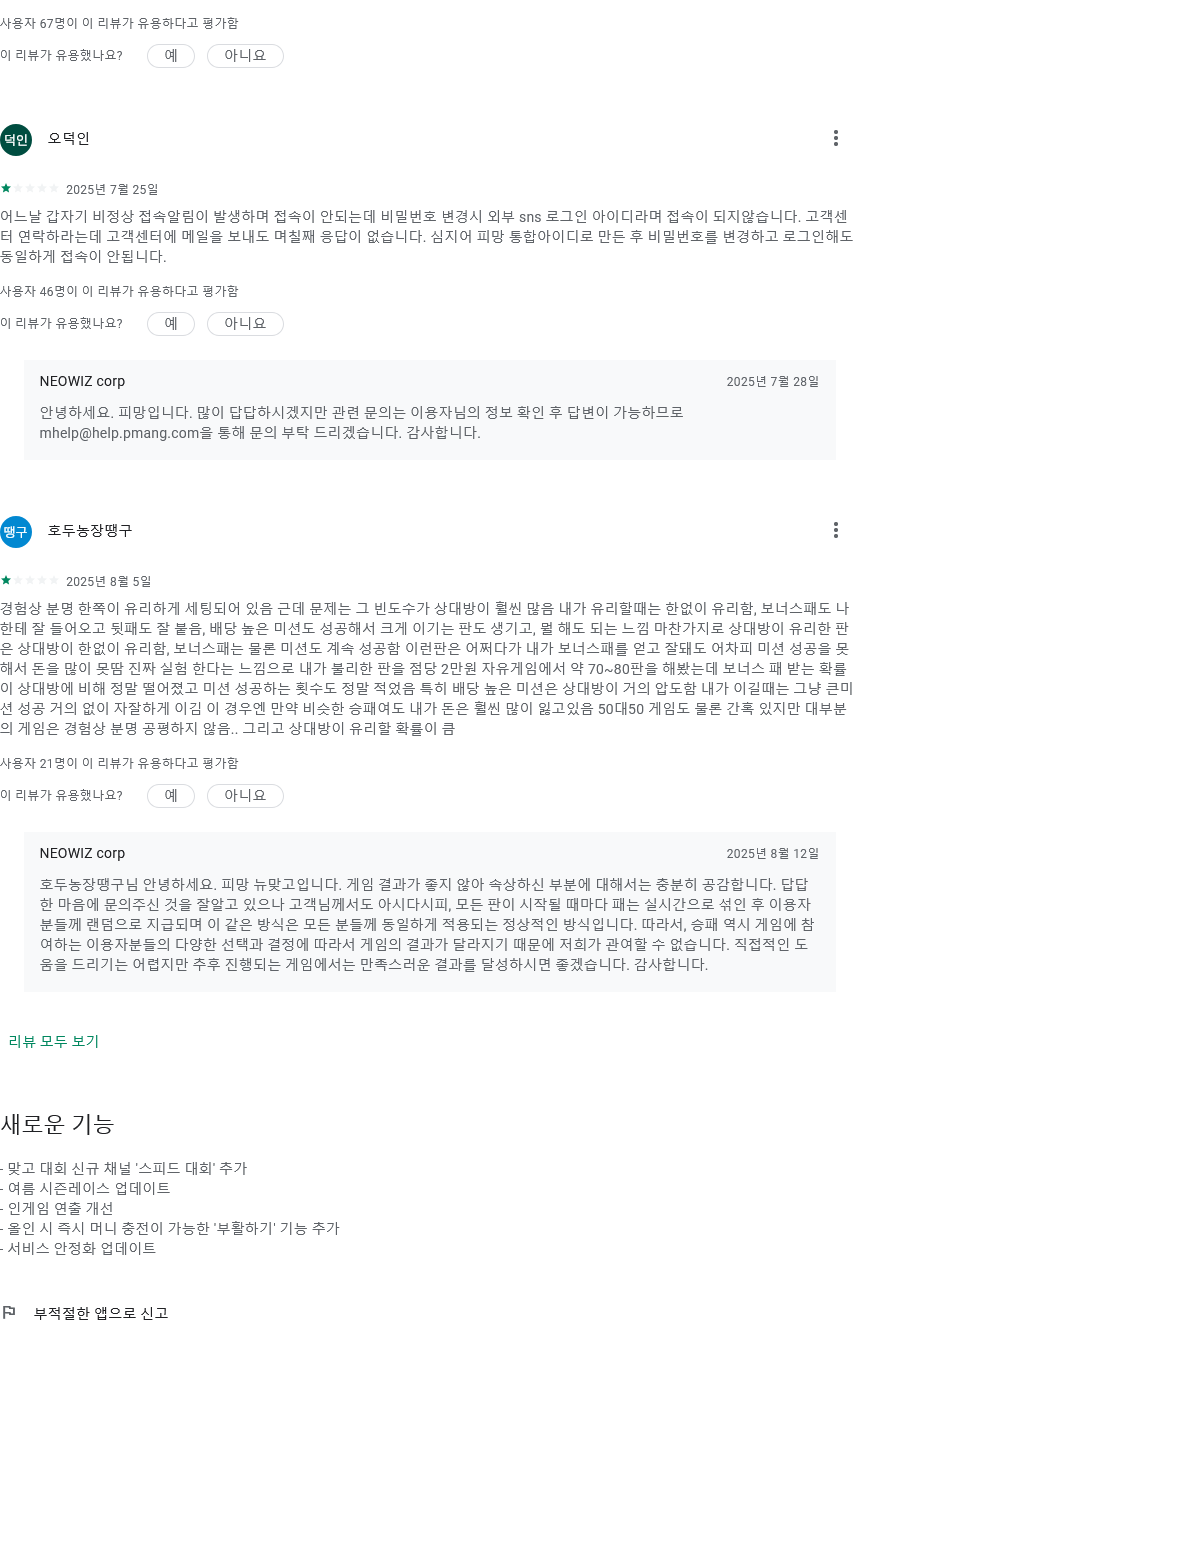
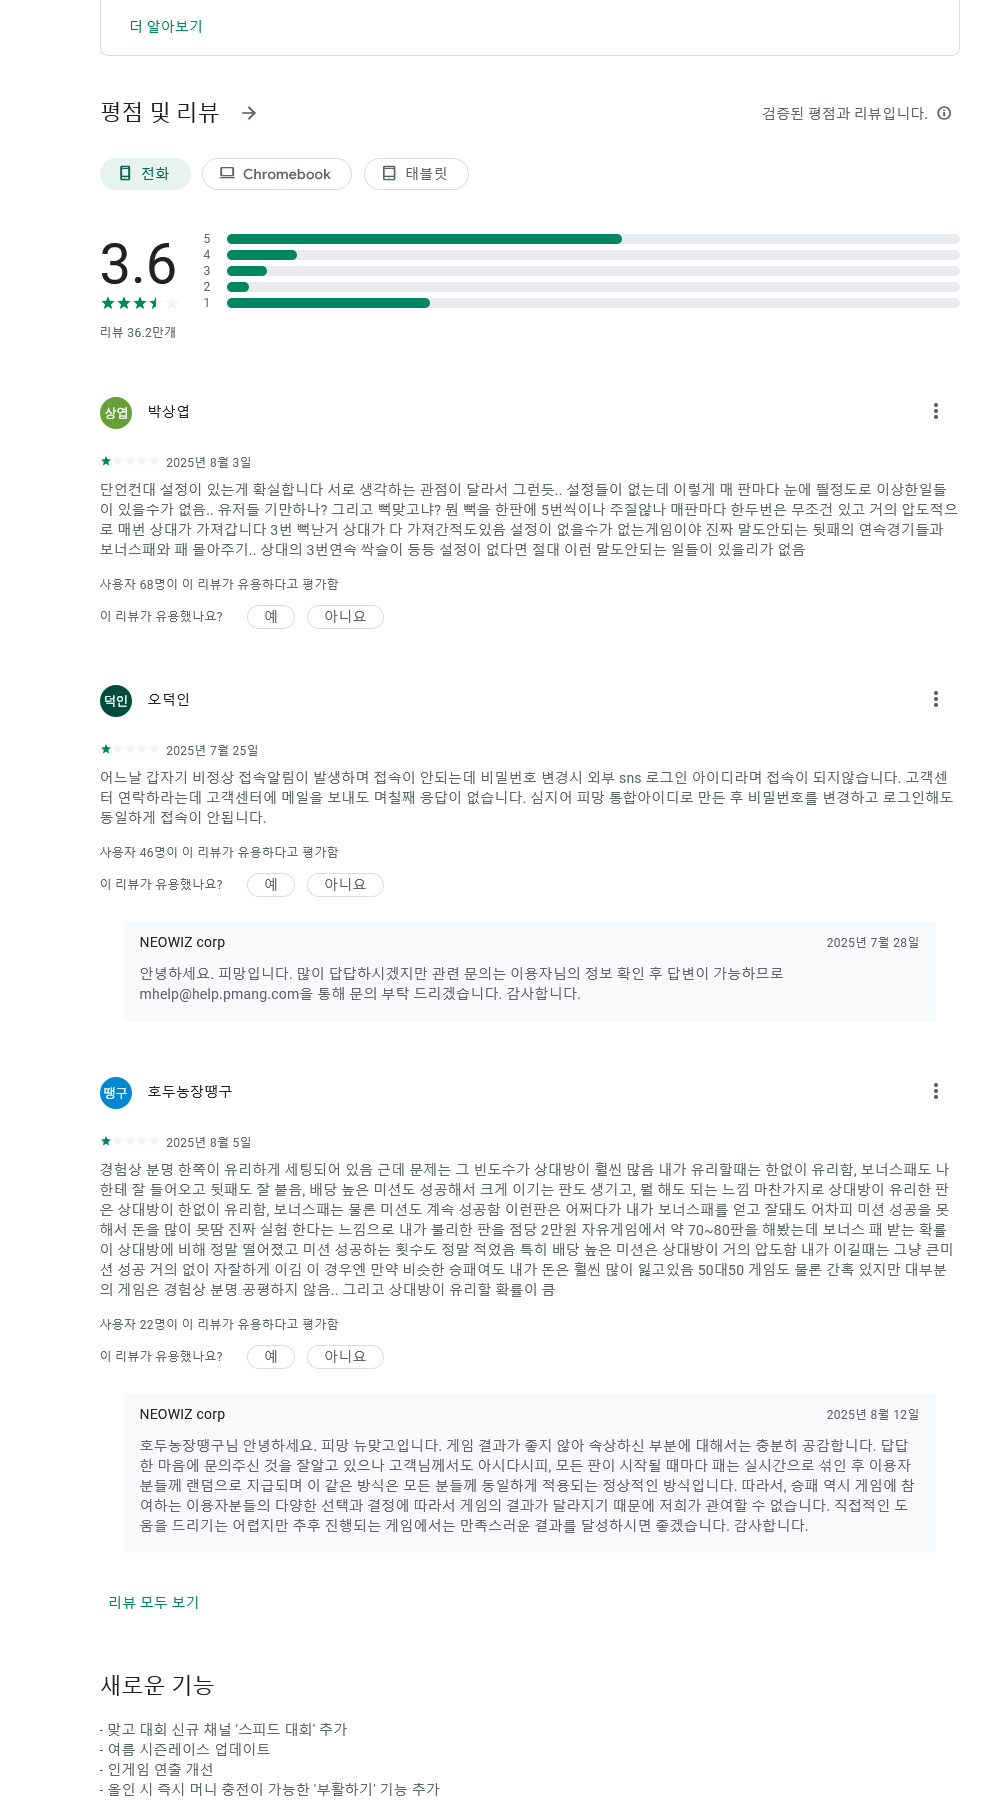
Update: HTML and 20250825 capture data with improved auto-update logic

diff --git a/aos_review.html b/aos_review.html
@@ -377,13 +377,14 @@
                     <div class="filter-section">
                         <div class="filter-group date-group">
                             <label class="filter-label">📅 날짜 선택</label>
-                            <select id="dateSelect" class="date-select" onchange="handleDateChange()">
-                                <option value="20250824">2025-08-24</option>
-                                <option value="20250823">2025-08-23</option>
-                                <option value="20250822">2025-08-22</option>
-                                <option value="20250821">2025-08-21</option>
-                                <option value="20250813">2025-08-13</option>
-                            </select>
+                                                         <select id="dateSelect" class="date-select" onchange="handleDateChange()">
+                                 <option value="20250825">2025-08-25</option>
+                                 <option value="20250824">2025-08-24</option>
+                                 <option value="20250823">2025-08-23</option>
+                                 <option value="20250822">2025-08-22</option>
+                                 <option value="20250821">2025-08-21</option>
+                                 <option value="20250813">2025-08-13</option>
+                             </select>
                         </div>
                         <div class="filter-group business-group">
                             <label class="filter-label">🏢 사업실 선택</label>
@@ -432,7 +433,7 @@
             ];
 
             // 사용 가능한 날짜들
-            const availableDates = ['20250824', '20250823', '20250822', '20250821', '20250813'];
+            const availableDates = ['20250825', '20250824', '20250823', '20250822', '20250821', '20250813'];
 
             function formatDate(dateStr) {
                 const year = dateStr.substring(0, 4);
@@ -616,7 +617,7 @@
 
             // 페이지 로드 시 기본 날짜 표시
             document.addEventListener('DOMContentLoaded', function () {
-                showDateContent('20250824');
+                showDateContent('20250825');
                 updateGameOptions('all');
                 filterGames('all');
             });

diff --git a/auto_capture_and_update.py b/auto_capture_and_update.py
@@ -55,7 +55,7 @@ def setup_driver():
     """Firefox WebDriver 설정"""
     firefox_options = Options()
     firefox_options.add_argument("--width=1920")
-    firefox_options.add_argument("--height=1080")
+    firefox_options.add_argument("--height=1200")  # 높이를 늘려서 더 많은 내용 표시
     firefox_options.add_argument("--headless")  # 백그라운드 실행을 위한 헤드리스 모드
     firefox_options.set_preference("dom.webdriver.enabled", False)
     firefox_options.set_preference("useAutomationExtension", False)
@@ -64,6 +64,11 @@ def setup_driver():
     # 한국어 설정 추가
     firefox_options.set_preference("intl.accept_languages", "ko-KR,ko;q=0.9,en;q=0.8")
     firefox_options.set_preference("general.useragent.locale", "ko-KR")
+    
+    # 추가 설정으로 더 정확한 렌더링 보장
+    firefox_options.set_preference("layout.css.devPixelsPerPx", "1.0")  # 픽셀 밀도 설정
+    firefox_options.set_preference("browser.cache.disk.enable", False)  # 캐시 비활성화
+    firefox_options.set_preference("browser.cache.memory.enable", False)  # 메모리 캐시 비활성화
     
     return webdriver.Firefox(options=firefox_options)
 
@@ -100,6 +105,26 @@ def capture_game_review_firefox(driver, app_id, game_name, save_dir, logger):
             driver.get(korean_url)
             time.sleep(3)
         
+        # 화면 크기 최적화를 위한 동적 조정
+        logger.info("화면 크기 최적화 시작")
+        try:
+            # 현재 창 크기 확인
+            current_size = driver.get_window_size()
+            logger.info(f"현재 창 크기: {current_size['width']} x {current_size['height']}")
+            
+            # 페이지 내용에 맞게 창 크기 조정
+            driver.set_window_size(1920, 1200)
+            time.sleep(2)
+            
+            # 페이지가 완전히 로드될 때까지 대기
+            WebDriverWait(driver, 10).until(
+                lambda driver: driver.execute_script("return document.readyState") == "complete"
+            )
+            
+            logger.info("화면 크기 최적화 완료")
+        except Exception as e:
+            logger.warning(f"화면 크기 최적화 실패: {e}")
+        
         # "리뷰 모두 보기" 버튼을 클릭하지 않고 기본 리뷰 섹션만 캡처
         logger.info(f"기본 리뷰 섹션 캡처 시작: {game_name} (버튼 클릭 없음)")
         
@@ -133,32 +158,55 @@ def capture_game_review_firefox(driver, app_id, game_name, save_dir, logger):
             "//span[text()='리뷰 모두 보기']",
             "//div[contains(text(), '리뷰 모두 보기')]",
             "//button[contains(text(), '리뷰 모두 보기')]",
-            "//a[contains(text(), '리뷰 모두 보기')]"
+            "//a[contains(text(), '리뷰 모두 보기')]",
+            "//div[contains(text(), '새로운 기능')]",
+            "//h3[contains(text(), '새로운 기능')]",
+            "//div[contains(text(), '부적절한 앱으로 신고')]",
+            "//a[contains(text(), '부적절한 앱으로 신고')]"
         ]
         
         for i, selector in enumerate(end_element_selectors):
             try:
                 end_element = driver.find_element(By.XPATH, selector)
-                logger.info(f"끝 요소 찾기 성공: '리뷰 모두 보기' (선택자 {i+1}: {selector})")
+                logger.info(f"끝 요소 찾기 성공: (선택자 {i+1}: {selector})")
                 break
             except Exception as e:
                 logger.debug(f"끝 요소 선택자 {i+1} 실패: {selector} - {e}")
                 continue
         
         if end_element is None:
-            logger.error(f"끝 요소를 찾을 수 없습니다: '리뷰 모두 보기'")
-            return False
+            logger.warning(f"끝 요소를 찾을 수 없습니다. 기본 높이로 캡처합니다.")
+            # 끝 요소를 찾지 못한 경우, 시작 요소에서 2000px 아래로 캡처
+            end_location = {'y': start_location['y'] + 2000}
+            end_size = {'height': 0}
+        else:
+            end_location = end_element.location
+            end_size = end_element.size
         
         # 시작 요소로 스크롤
         logger.info(f"시작 요소로 스크롤: {game_name}")
         driver.execute_script("arguments[0].scrollIntoView({behavior: 'smooth', block: 'start'});", start_element)
         time.sleep(3)  # 스크롤 완료 대기
         
-        # 전체 페이지 높이 설정
+        # 전체 페이지 높이 설정 (전체 화면 캡처)
         logger.info("전체 페이지 높이 설정")
         total_height = driver.execute_script("return document.body.scrollHeight")
+        logger.info(f"전체 페이지 높이: {total_height}px")
+        
+        # 전체 화면 크기로 설정
         driver.set_window_size(1920, total_height)
+        time.sleep(3)  # 크기 변경 후 안정화 대기
+        
+        # 페이지가 완전히 렌더링될 때까지 대기
+        WebDriverWait(driver, 10).until(
+            lambda driver: driver.execute_script("return document.readyState") == "complete"
+        )
+        
+        # 추가로 스크롤하여 모든 콘텐츠가 로드되도록 함
+        driver.execute_script("window.scrollTo(0, document.body.scrollHeight);")
         time.sleep(2)
+        driver.execute_script("window.scrollTo(0, 0);")
+        time.sleep(1)
         
         # 스크린샷 촬영
         logger.info(f"전체 페이지 스크린샷 촬영: {game_name}")
@@ -178,11 +226,19 @@ def capture_game_review_firefox(driver, app_id, game_name, save_dir, logger):
         logger.info(f"끝 요소 위치: x={end_location['x']}, y={end_location['y']}")
         logger.info(f"끝 요소 크기: width={end_size['width']}, height={end_size['height']}")
         
-        # 캡처 영역 계산 (시작 요소부터 끝 요소까지, 너비 1200px로 고정)
-        crop_left = max(0, start_location['x'])
-        crop_top = max(0, start_location['y'] - 20)  # 시작 요소 위쪽 20px 여유
-        crop_right = min(img.width, start_location['x'] + 1200)  # 너비를 1200px로 고정
-        crop_bottom = min(img.height, end_location['y'] + end_size['height'] + 30)  # 끝 요소 아래쪽 30px 여유
+        # 캡처 영역 계산 (고정 크기: 1000 x 1800 - 우측 사이드바 제외)
+        crop_width = 1000  # 너비를 1000px로 설정 (우측 사이드바 제외)
+        crop_left = max(0, start_location['x'] - 100)  # 시작 요소에서 왼쪽으로 100px 여백
+        crop_top = max(0, start_location['y'] - 100)  # 시작 요소 위쪽 100px 여유
+        crop_right = min(img.width, crop_left + crop_width)  # 조정된 너비 적용
+        
+        # 고정 높이 1800px로 설정
+        crop_bottom = min(img.height, crop_top + 1800)  # 시작점에서 1800px 아래까지
+        
+        # 최소 캡처 높이 보장 (최소 1800px)
+        min_height = 1800
+        if crop_bottom - crop_top < min_height:
+            crop_bottom = min(img.height, crop_top + min_height)
         
         logger.info(f"최종 크롭 영역: left={crop_left}, top={crop_top}, right={crop_right}, bottom={crop_bottom}")
         
@@ -220,9 +276,20 @@ def update_html_with_new_images(save_dir, logger):
         # 새로 캡처된 파일들의 매핑 생성
         filename_mapping = {}
         for app_id, game_name in GAMES.items():
-            old_filename = f"{game_name.lower()}_reviews_{today}_*.png"  # 기존 형식
-            new_filename = f"{game_name}_{today}.png"  # 새로운 형식
-            filename_mapping[old_filename] = new_filename
+            # 실제 생성되는 파일명 형식으로 수정
+            new_filename = f"{game_name}_{today}.png"
+            
+            # HTML에서 찾을 수 있는 다양한 패턴들
+            old_patterns = [
+                f"{game_name.lower()}_reviews_{today}_*.png",
+                f"{game_name.lower()}_{today}_*.png", 
+                f"{game_name}_{today}_*.png",
+                f"{game_name.lower()}_reviews_*.png",
+                f"{game_name}_reviews_*.png"
+            ]
+            
+            for old_pattern in old_patterns:
+                filename_mapping[old_pattern] = new_filename
         
         # HTML 파일 읽기
         with open(html_file, 'r', encoding='utf-8') as f:
@@ -244,6 +311,55 @@ def update_html_with_new_images(save_dir, logger):
                 content = new_content
                 changes_made += count
                 logger.info(f"변경됨: {old_pattern} -> {new_filename} ({count}회)")
+        
+        # JavaScript 템플릿 변수도 업데이트 (currentDate)
+        js_pattern = r'(\$\{currentDate\})'
+        js_replacement = today
+        new_content, count = re.subn(js_pattern, js_replacement, content)
+        if count > 0:
+            content = new_content
+            changes_made += count
+            logger.info(f"JavaScript 변수 업데이트: ${{currentDate}} -> {today} ({count}회)")
+        
+        # JavaScript 템플릿 변수도 업데이트 (prevDate)
+        prev_date = (datetime.datetime.now() - datetime.timedelta(days=7)).strftime('%Y%m%d')
+        js_prev_pattern = r'(\$\{prevDate\})'
+        js_prev_replacement = prev_date
+        new_content, count = re.subn(js_prev_pattern, js_prev_replacement, content)
+        if count > 0:
+            content = new_content
+            changes_made += count
+            logger.info(f"JavaScript 변수 업데이트: ${{prevDate}} -> {prev_date} ({count}회)")
+        
+        # availableDates 배열 업데이트
+        available_dates_pattern = r"const availableDates = \[([^\]]*)\];"
+        available_dates_match = re.search(available_dates_pattern, content)
+        if available_dates_match:
+            current_dates = available_dates_match.group(1).split(',')
+            current_dates = [date.strip().strip("'") for date in current_dates if date.strip()]
+            
+            # 오늘 날짜가 없으면 추가
+            if today not in current_dates:
+                current_dates.insert(0, today)  # 최신 날짜를 맨 앞에 추가
+                new_available_dates = "['" + "', '".join(current_dates) + "']"
+                content = re.sub(available_dates_pattern, f"const availableDates = [{new_available_dates}];", content)
+                changes_made += 1
+                logger.info(f"availableDates 배열 업데이트: {today} 추가됨")
+        
+        # 날짜 선택 드롭다운 업데이트
+        date_select_pattern = r'<select id="dateSelect" class="date-select" onchange="handleDateChange\(\)">(.*?)</select>'
+        date_select_match = re.search(date_select_pattern, content, re.DOTALL)
+        if date_select_match:
+            current_options = date_select_match.group(1)
+            
+            # 오늘 날짜 옵션이 없으면 추가
+            today_option = f'<option value="{today}">{today[:4]}-{today[4:6]}-{today[6:8]}</option>'
+            if today_option not in current_options:
+                # 첫 번째 옵션으로 추가
+                new_options = today_option + '\n                                 ' + current_options
+                content = re.sub(date_select_pattern, f'<select id="dateSelect" class="date-select" onchange="handleDateChange()">\n                                 {new_options}\n                             </select>', content, flags=re.DOTALL)
+                changes_made += 1
+                logger.info(f"날짜 선택 드롭다운 업데이트: {today} 옵션 추가됨")
         
         # 변경사항이 있으면 파일에 저장
         if changes_made > 0:
